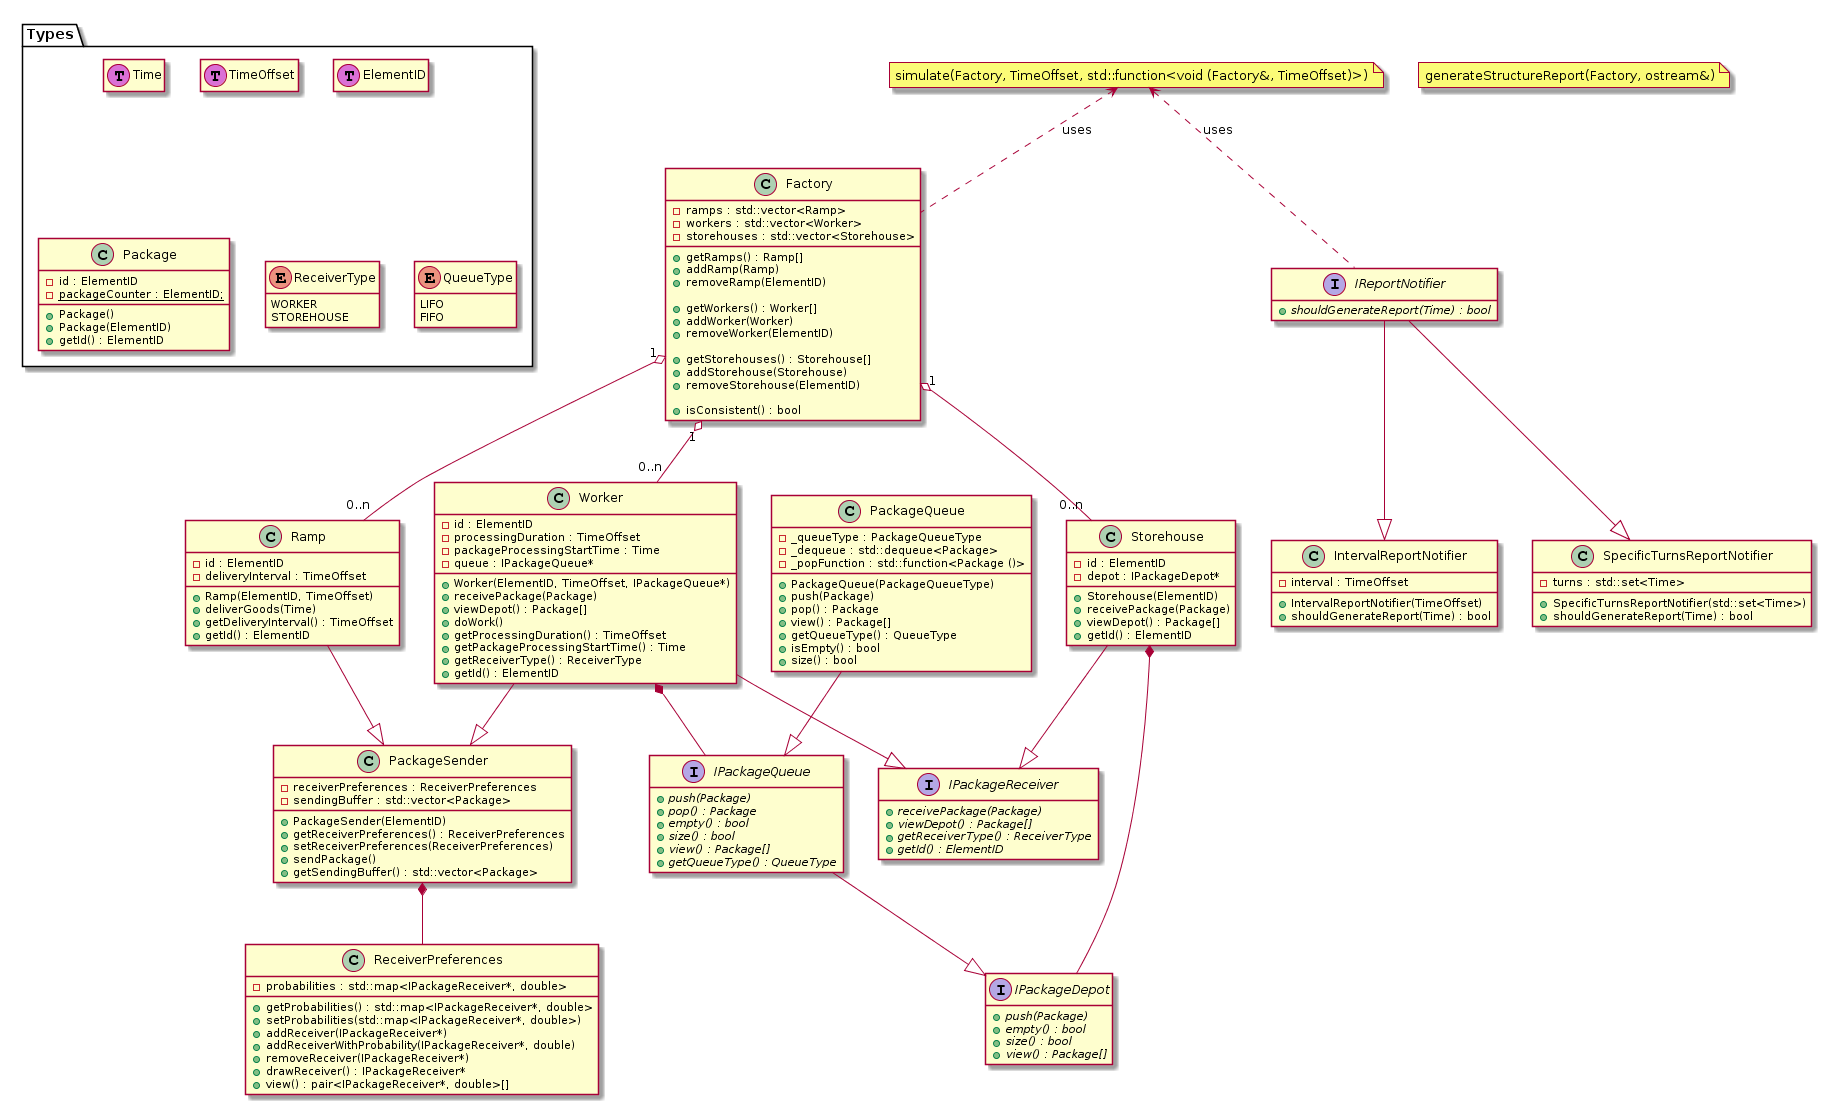
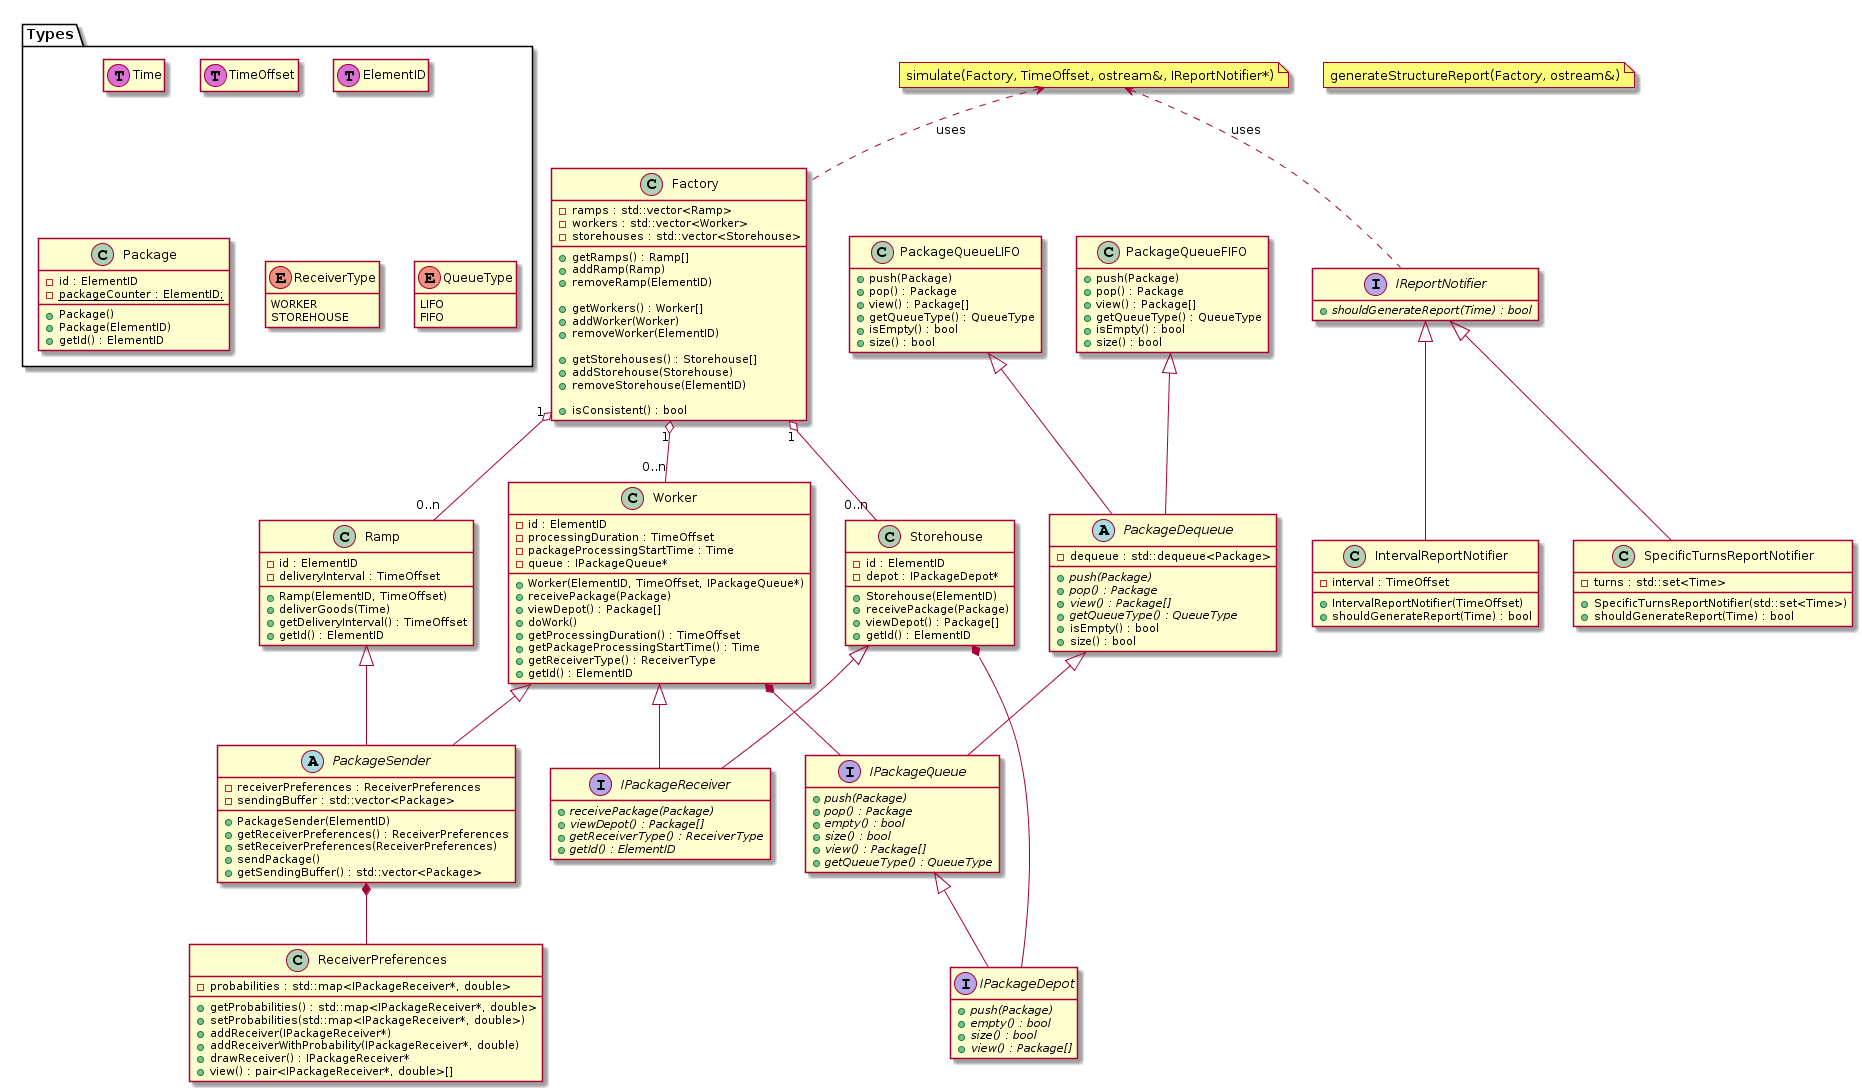
polimorfizm3 (tez z dziedziczeniem) :)

diff --git a/Factory.h b/Factory.h
@@ -2,7 +2,7 @@
 #define NET_SIMULATION_FACTORY_H
 
 
-#include <vector>
+#include <list>
 #include "Ramp.h"
 #include "Worker.h"
 #include "Storehouse.h"
@@ -10,23 +10,23 @@
 
 
 class Factory {
-    std::vector<Ramp> ramps;
-    std::vector<Worker> workers;
-    std::vector<Storehouse> storehouses;
+    std::list<Ramp> ramps;
+    std::list<Worker> workers;
+    std::list<Storehouse> storehouses;
 
 
 public:
-    std::vector<Ramp> getRamps();
+    std::list<Ramp> getRamps();
     void addRamp (Ramp _ramp);
     void removeRamp (ElementID _rampID);
 
-    std::vector<Worker> getWorkers();
+    std::list<Worker> getWorkers();
     void addWorker(Worker _worker);
     void removeWorker (ElementID _workerID);
 
 
     //Usuniecie elementu jest trywialne, ale trzeba sie zajac w tym miejscu "ślepymi połączeniami"
-    std::vector<Storehouse> getStorehouses();
+    std::list<Storehouse> getStorehouses();
     void addStorehouse(Storehouse _storehouse);
     void removeStorehouse (ElementID _storehouseID);
 

diff --git a/PackageQueue.h b/PackageQueue.h
@@ -8,21 +8,31 @@
 #include "Package.h"
 #include "IPackageQueue.h"
 
-class PackageQueue : public IPackageQueue {
+class PackageQueue : private IPackageQueue {
 
 
-    QueueType _queueType;
+protected:
+
     std::deque _deque;   // double ended queue
-    std::function<Package()> _popFunction;
+
+    //std::function<Package()> _popFunction;
+
+public:
 
     PackageQueue (QueueType _type);
+
+    PackageQueue();
+
+    int size();
+
+
     void view(Package* _package_array);
     bool isEmpty();
 
-    virtual QueueType getQueueType()= 0;
-    virtual int size()= 0;
-    virtual void push(Package _package)= 0;
-    virtual void pop(Package _package)= 0;
+    virtual QueueType getQueueType() = 0;
+
+    void push(Package _package);
+    virtual void pop(Package _package) = 0;
 };
 
 

diff --git a/PackageQueue.cpp b/PackageQueue.cpp
@@ -1,15 +1,31 @@
 #include "PackageQueue.h"
 
-PackageQueue::PackageQueue(QueueType _type) {
-    _queueType = _type;
 
-
-}
 
 void PackageQueue::view(Package *_package_array) {
 
 }
 
 bool PackageQueue::isEmpty() {
-    return _queue.empty();
+    return _deque.empty();
 }
+
+int PackageQueue::size() {
+    return _deque.size();
+}
+
+QueueType PackageQueue::getQueueType() {
+    return IPackageQueue::getQueueType();
+}
+
+void PackageQueue::push(Package _package) {
+    IPackageQueue::push(_package);
+}
+
+void PackageQueue::pop(Package _package) {
+    IPackageQueue::pop(_package);
+}
+
+PackageQueue::PackageQueue() {}
+
+

diff --git a/IPackageQueue.h b/IPackageQueue.h
@@ -5,21 +5,21 @@
 #include "Package.h"
 #include "QueueType.h"
 #include "IPackageDepot.h"
+#include "PackageQueue.h"
 
 class IPackageQueue : public IPackageDepot
 {
 
 
 public:
-    virtual void push(Package to_push);
 
-    virtual void pop(Package to_pop);
-    bool empty();
+    virtual QueueType getQueueType() = 0;
+    virtual void pop(Package to_pop) = 0;
 
-    virtual int size();
-    std::deque view();
-    virtual QueueType getQueueType();
-
+    virtual void push(Package to_push) = 0;
+    virtual bool isEmpty() = 0;
+    virtual int size()= 0;
+    virtual std::deque view()= 0;
 
 };
 

diff --git a/Factory.cpp b/Factory.cpp
@@ -1,6 +1,6 @@
 #include "Factory.h"
 
-std::vector<Ramp> Factory::getRamps() {
+std::list<Ramp> Factory::getRamps() {
     return ramps;
 }
 
@@ -10,7 +10,7 @@ void Factory::addRamp(Ramp _ramp) {
 
 
 
-std::vector<Worker> Factory::getWorkers() {
+std::list<Worker> Factory::getWorkers() {
     return workers;
 }
 
@@ -20,7 +20,7 @@ void Factory::addWorker(Worker _worker) {
 
 
 
-std::vector<Storehouse> Factory::getStorehouses() {
+std::list<Storehouse> Factory::getStorehouses() {
     return storehouses;
 }
 

diff --git a/Worker.h b/Worker.h
@@ -9,7 +9,7 @@
 #include "IPackageQueue.h"
 #include "Package.h"
 #include "ReceiverType.h"
-
+#include <memory>
 #include "types.h"
 #include "IPackageReceiver.h"
 
@@ -20,6 +20,7 @@ private:
     TimeOffset processingDuration;
     Time packageProcessingStartTime;
     IPackageQueue* queue;
+    std::vector<Package> currentlyProcessedPackage;
 
 public:
     Worker(int ElementID, TimeOffset, IPackageQueue* _packageQueue);

diff --git a/IPackageDepot.h b/IPackageDepot.h
@@ -4,13 +4,21 @@
 
 #include <queue>
 #include "Package.h"
+#include "IPackageQueue.h"
 
-class IPackageDepot {
+class IPackageDepot{
 
-    void push(Package _package);
-    bool empty();
-    int size();
-    std::deque view();
+
+public:
+    IPackageDepot() = default;
+
+    virtual void push(Package _package)=0;
+
+//    virtual bool empty();
+
+//    virtual int size();
+
+//    virtual std::deque view();
 
 };
 

diff --git a/IPackageQueue.cpp b/IPackageQueue.cpp
@@ -1,26 +1,5 @@
 #include "IPackageQueue.h"
 
-void IPackageQueue::push(Package to_push) {
 
-}
 
-void IPackageQueue::pop(Package to_pop) {
 
-}
-
-bool IPackageQueue::empty() {
-    return false;
-}
-
-int IPackageQueue::size() {
-    return false;
-}
-
-std::deque IPackageQueue::view() {
-    return nullptr;
-}
-
-QueueType IPackageQueue::getQueueType() {
-    QueueType result;
-    return result;
-}

diff --git a/PackageQueueLIFO.h b/PackageQueueLIFO.h
@@ -1,0 +1,21 @@
+#ifndef NET_SIMULATION_PACKAGEQUEUELIFO_H
+#define NET_SIMULATION_PACKAGEQUEUELIFO_H
+
+
+#include "PackageQueue.h"
+#include "QueueType.h"
+
+
+class PackageQueueLIFO : private PackageQueue {
+
+
+public:
+
+    virtual QueueType getQueueType();
+
+    virtual void pop();
+
+};
+
+
+#endif //NET_SIMULATION_PACKAGEQUEUELIFO_H

diff --git a/Storehouse.h b/Storehouse.h
@@ -3,6 +3,7 @@
 
 
 
+#include <memory>
 #include "IPackageDepot.h"
 #include "Package.h"
 #include "types.h"
@@ -11,7 +12,8 @@
 class Storehouse : public IPackageReceiver {
 
     ElementID id;
-    IPackageDepot* depot;
+    std::unique_ptr<IPackageDepot> depot;
+
 
 public:
     Storehouse(ElementID _id);

diff --git a/PackageQueueFIFO.h b/PackageQueueFIFO.h
@@ -1,0 +1,17 @@
+#ifndef NET_SIMULATION_PACKAGEQUEUEFIFO_H
+#define NET_SIMULATION_PACKAGEQUEUEFIFO_H
+
+
+#include "QueueType.h"
+
+class PackageQueueFIFO {
+
+
+    virtual QueueType getQueueType();
+
+    virtual void pop();
+
+};
+
+
+#endif //NET_SIMULATION_PACKAGEQUEUEFIFO_H

diff --git a/IPackageDepot.cpp b/IPackageDepot.cpp
@@ -4,13 +4,6 @@ void IPackageDepot::push(Package _package) {
 
 }
 
-bool IPackageDepot::empty() {
-    return false;
-}
-
-int IPackageDepot::size() {
-    return 0;
-}
 
 std::deque IPackageDepot::view() {
     return std::queue();
